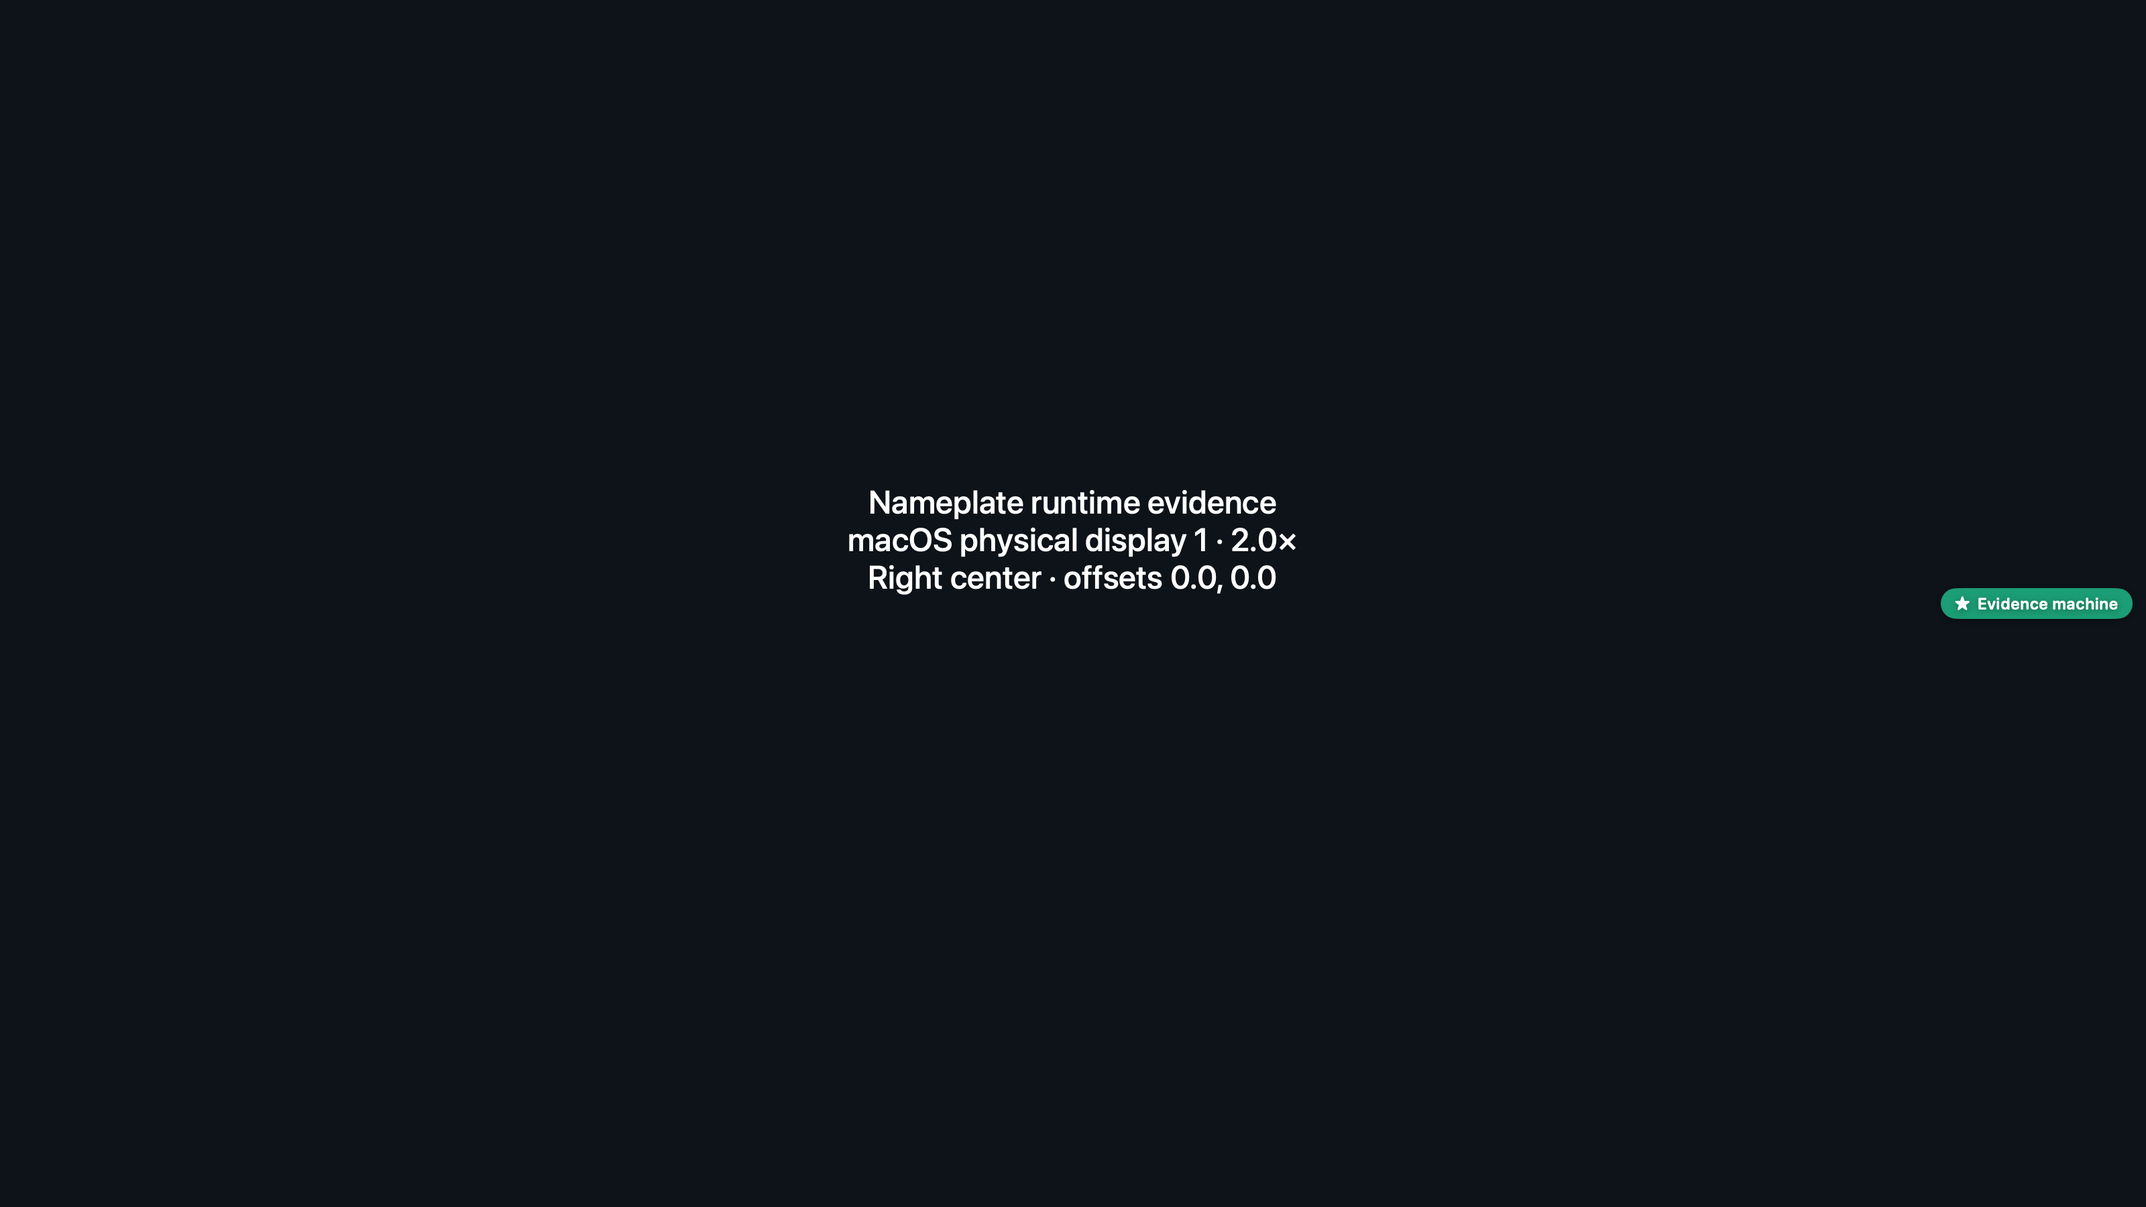
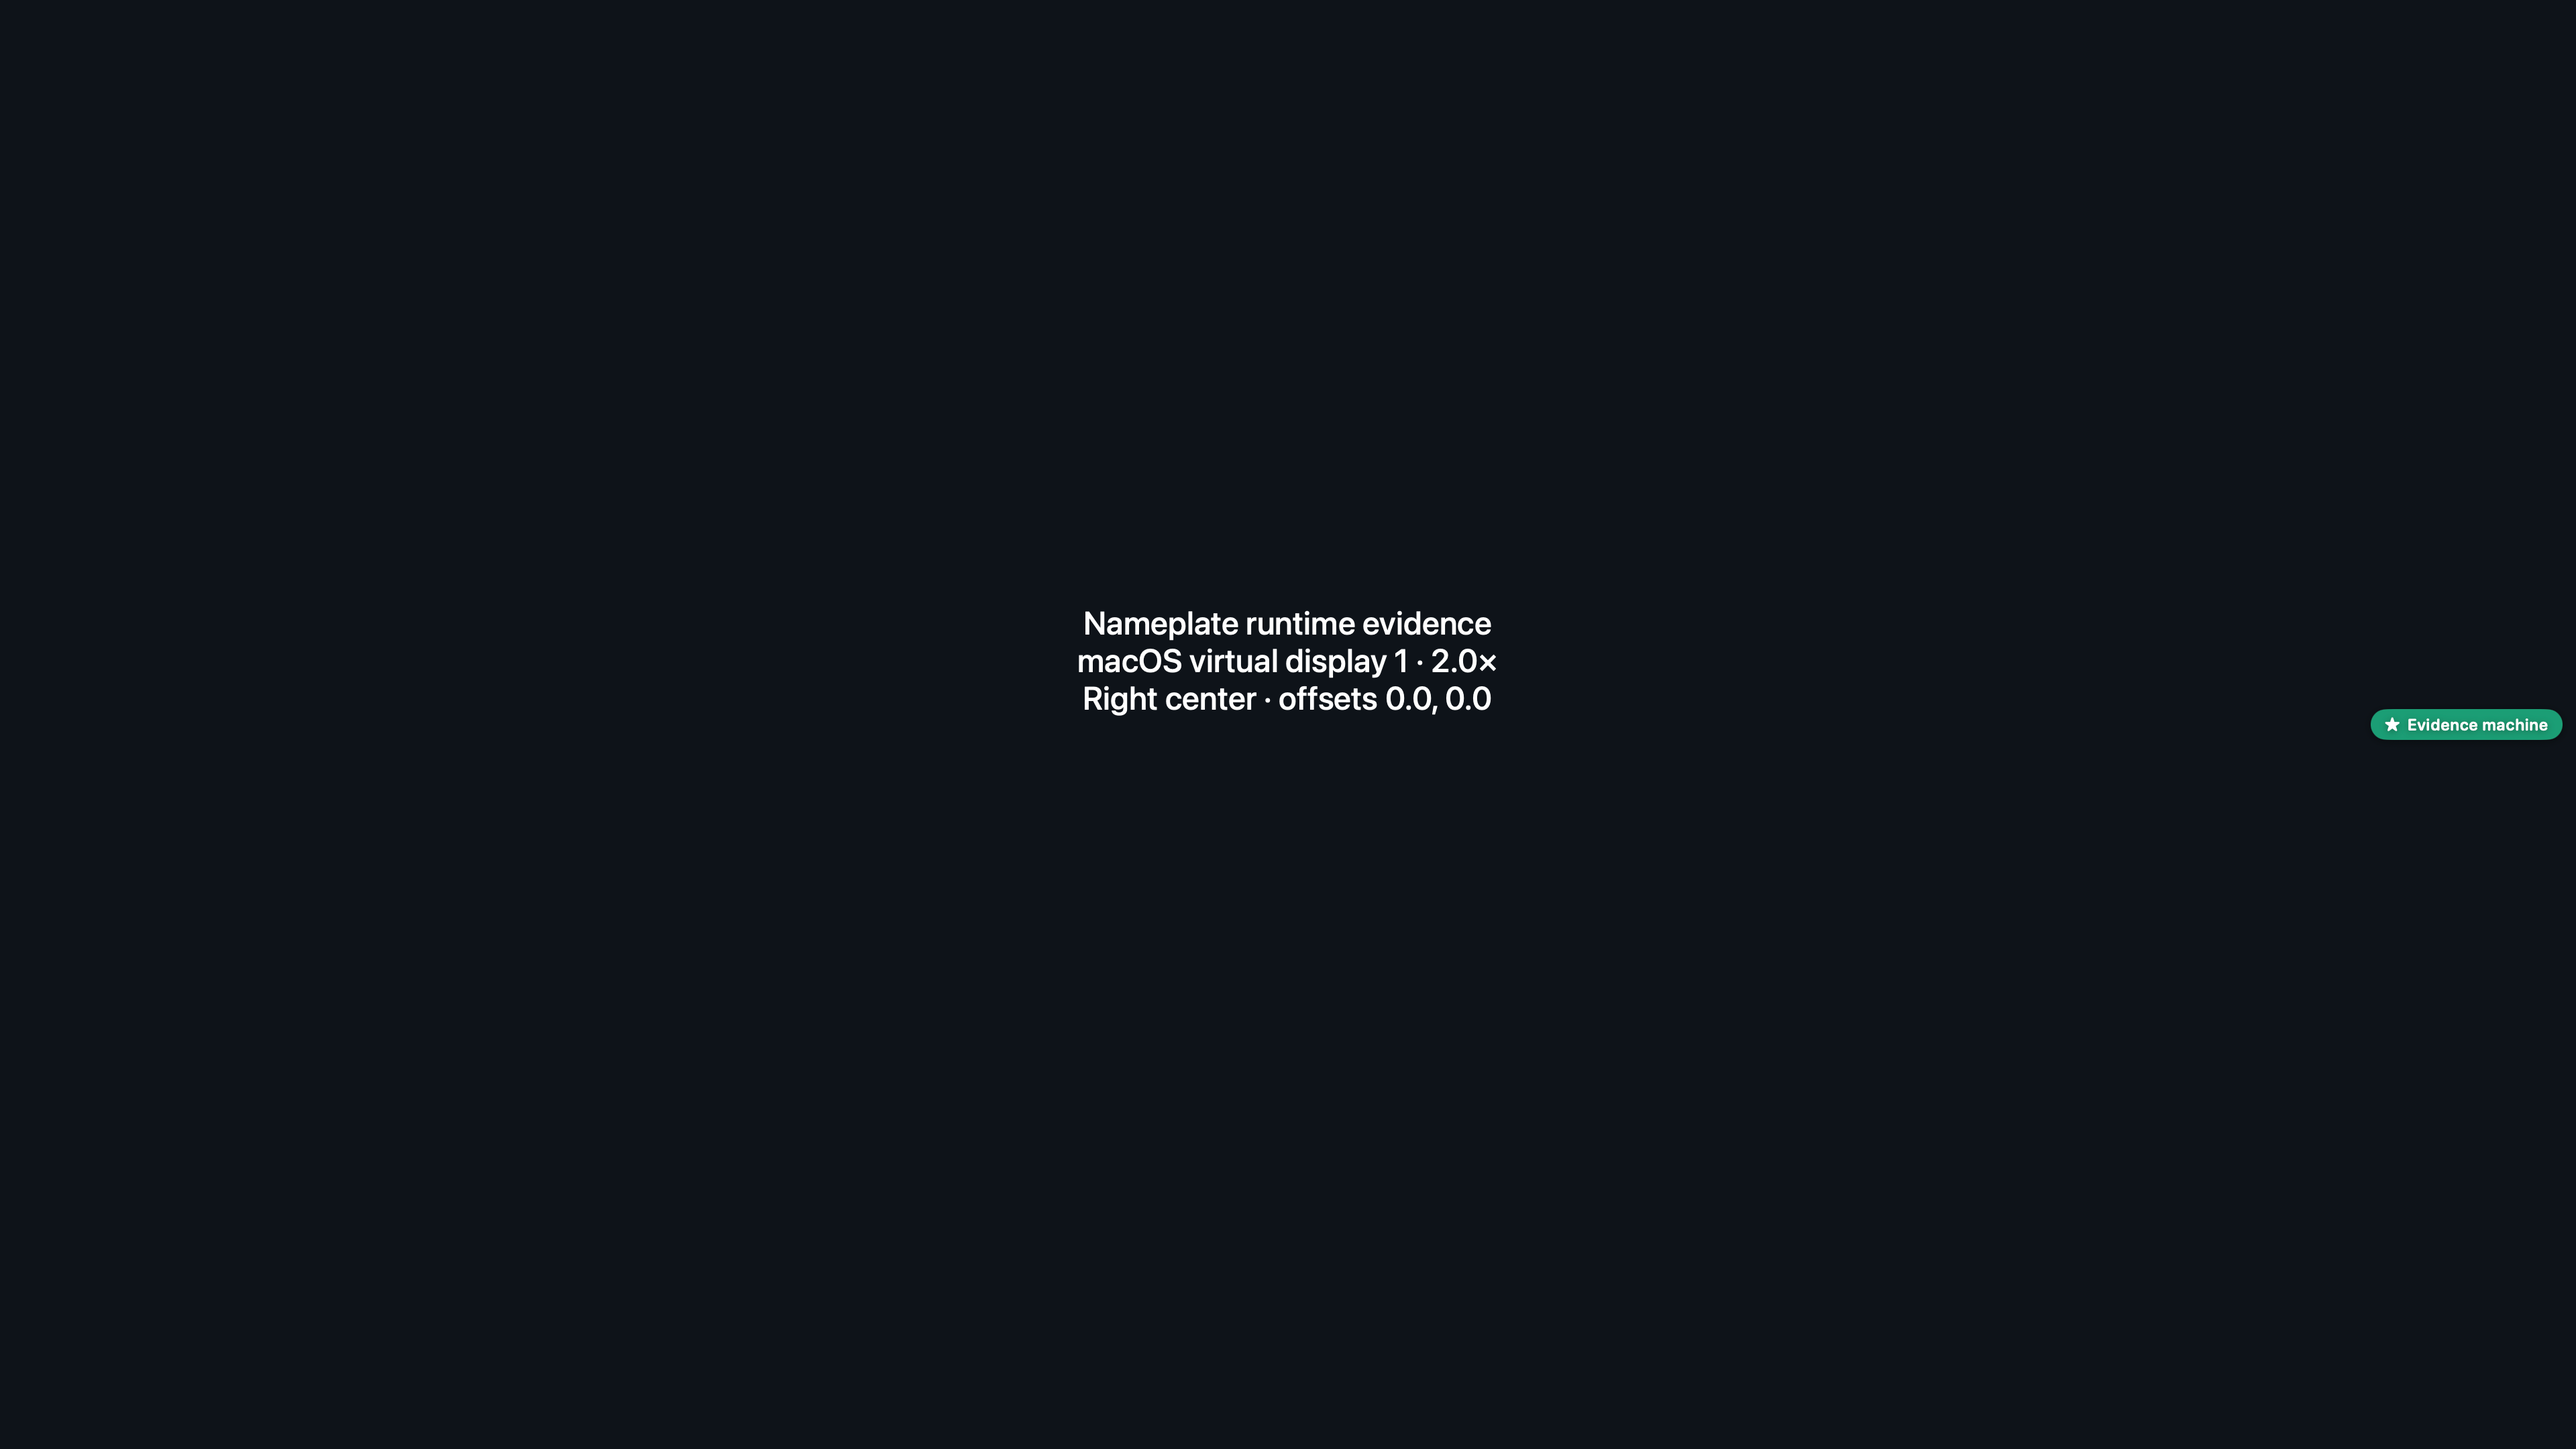
docs: correct macOS display provenance with classified native captures

Changed region(s): [[0.4062, 0.4044, 0.5938, 0.4978], [0.9062, 0.4667, 1.0, 0.5289]]

diff --git a/README.md b/README.md
@@ -8,9 +8,9 @@ Reproduction tools: [Scripts/evidence](https://github.com/Czaruno/Nameplate/tree
 
 ## macos
 
-Physical macOS display, 1600×900 points, 3200×1800 pixels, 2× scale. ScreenCaptureKit captures a live composite of the production NSPanel/SwiftUI overlay and a synthetic backdrop only.
+Screen Sharing virtual macOS display, 1920×1080 points, 3840×2160 pixels, 2× scale. Recorded display name/vendor and production virtual-display classification confirm that this is not physical hardware evidence. Earlier macOS screenshots were labeled physical without recording the display type; these classified captures supersede that unsupported label. ScreenCaptureKit captures a live composite of the production NSPanel/SwiftUI overlay and a synthetic backdrop only.
 
-Production revision: `54eb0a362ec212b6b1f3a676e9ac352dd3e1343d`. [Measurements](./macos/runtime.json).
+Production revision: `1aca0513aa4c8595d23e01e5fc228d344ca24fee`. [Measurements](./macos/runtime.json).
 
 - [topLeft-0-0-display-1.png](./macos/topLeft-0-0-display-1.png)
 - [topCenter-0-0-display-1.png](./macos/topCenter-0-0-display-1.png)
